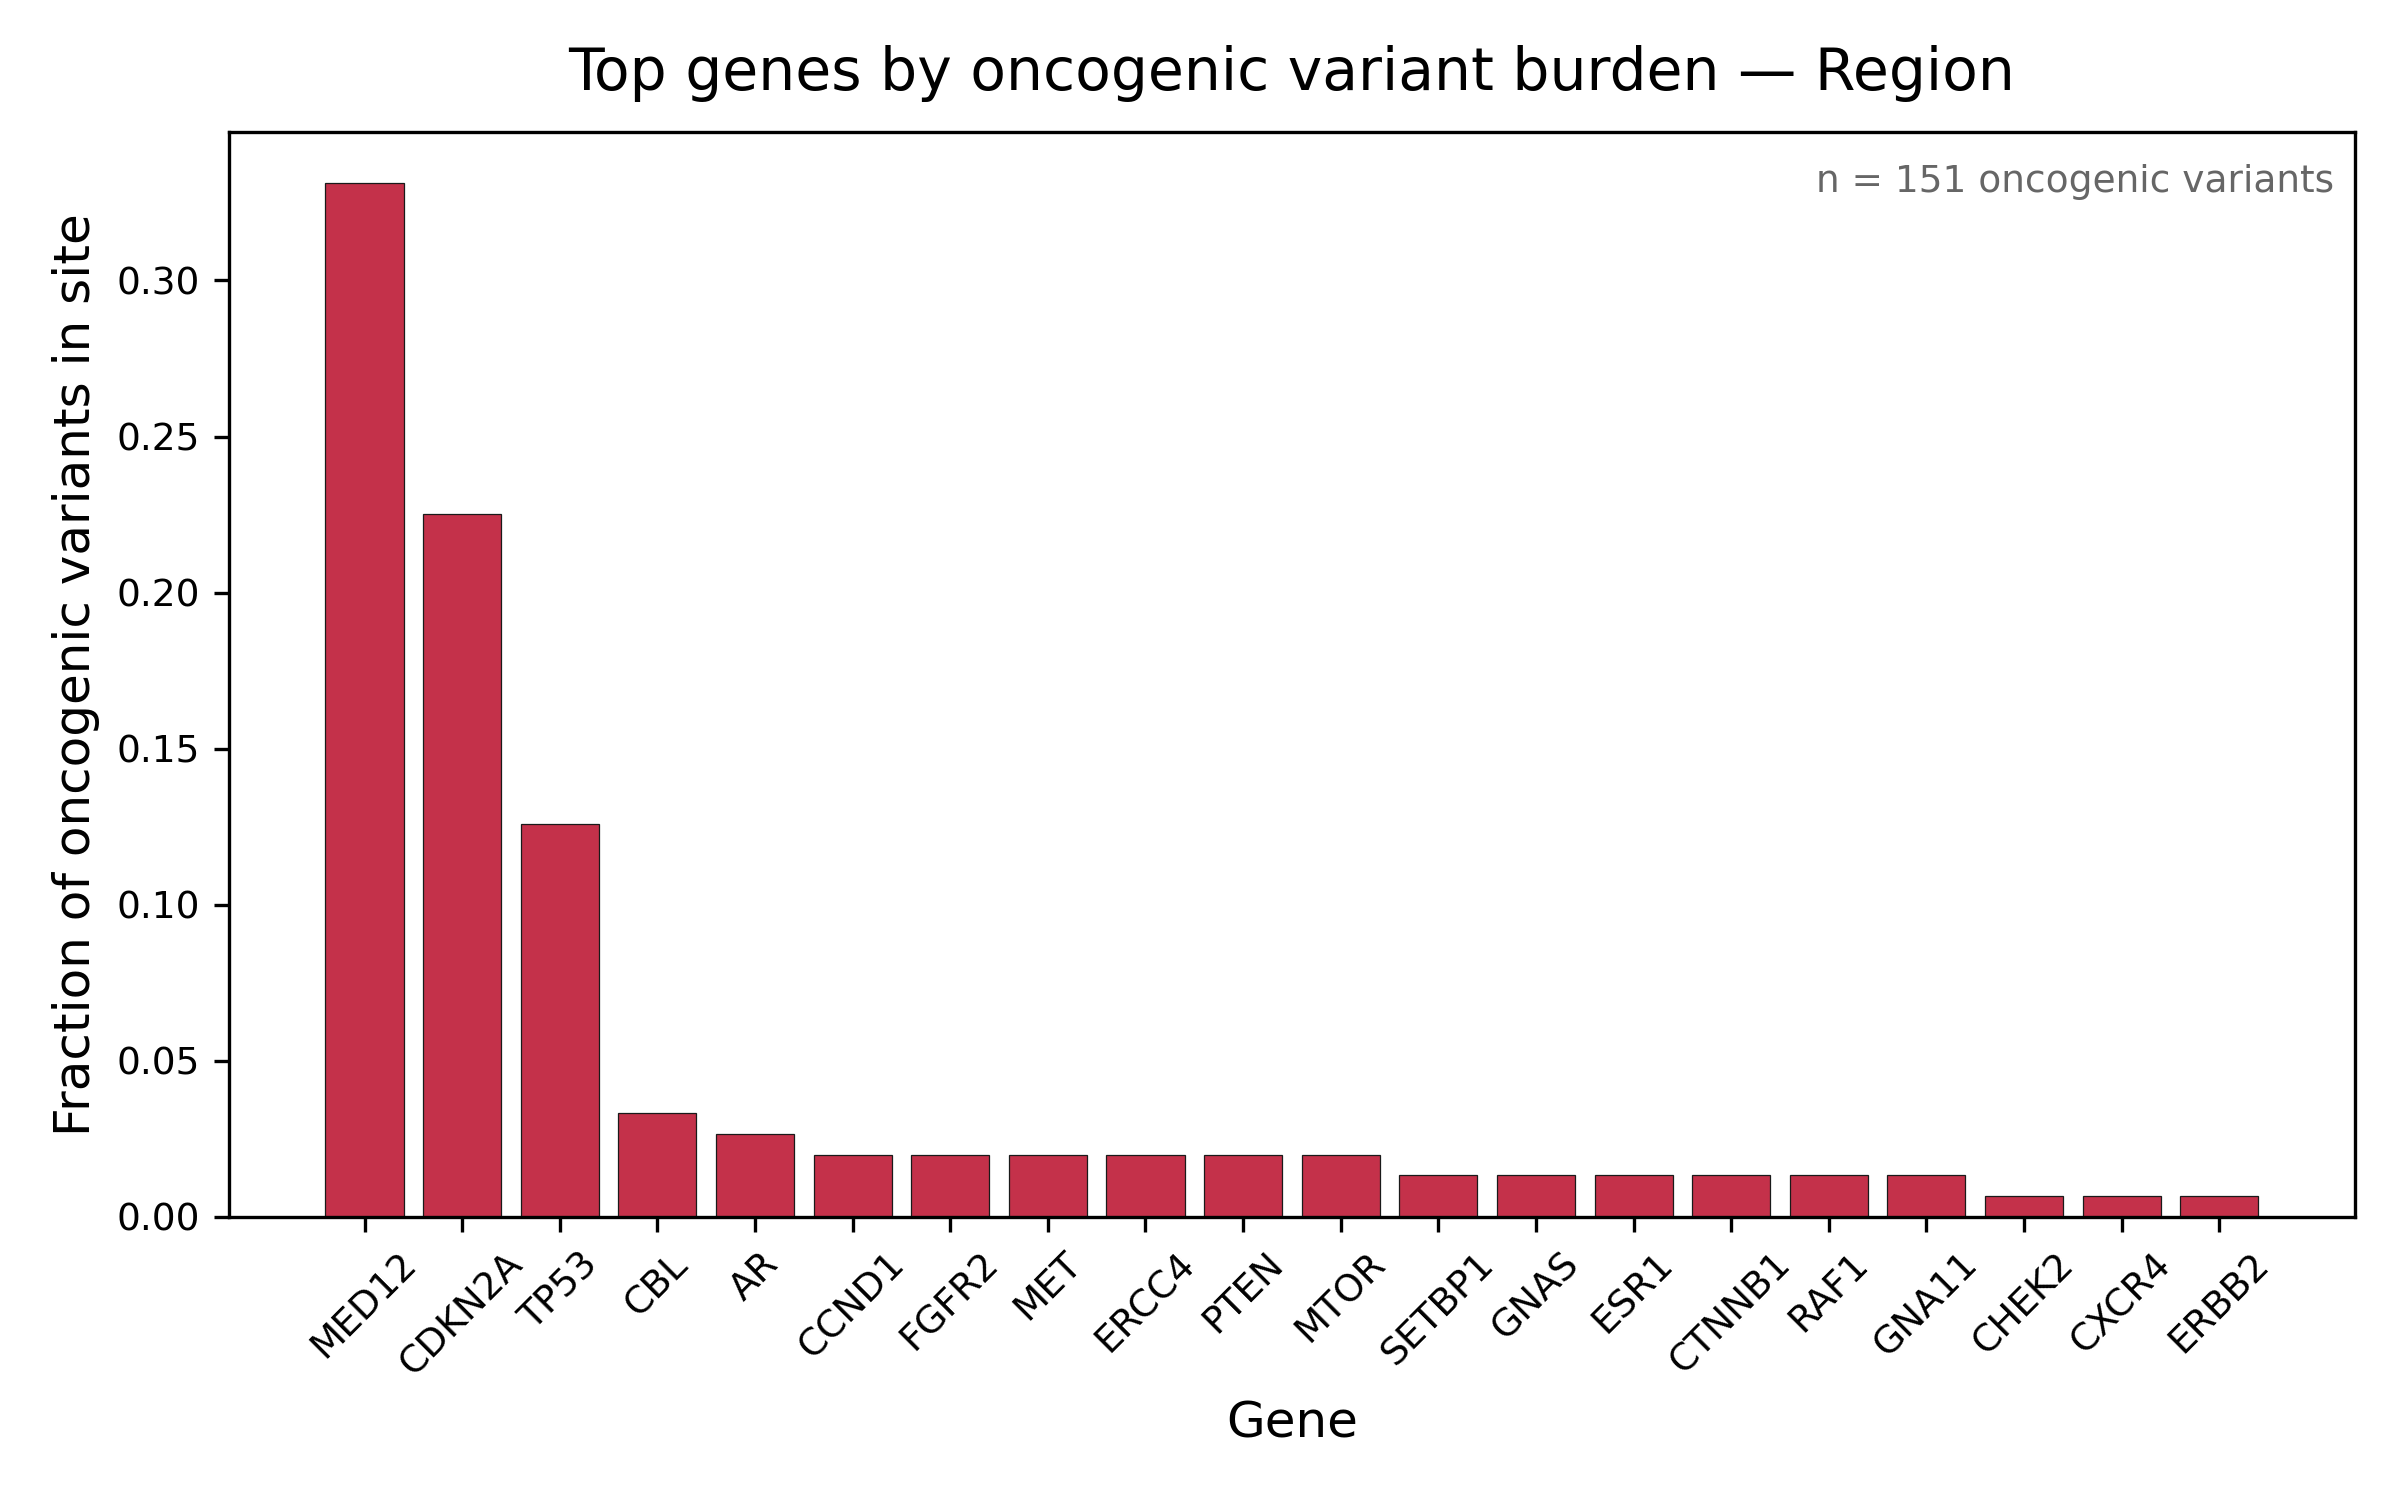
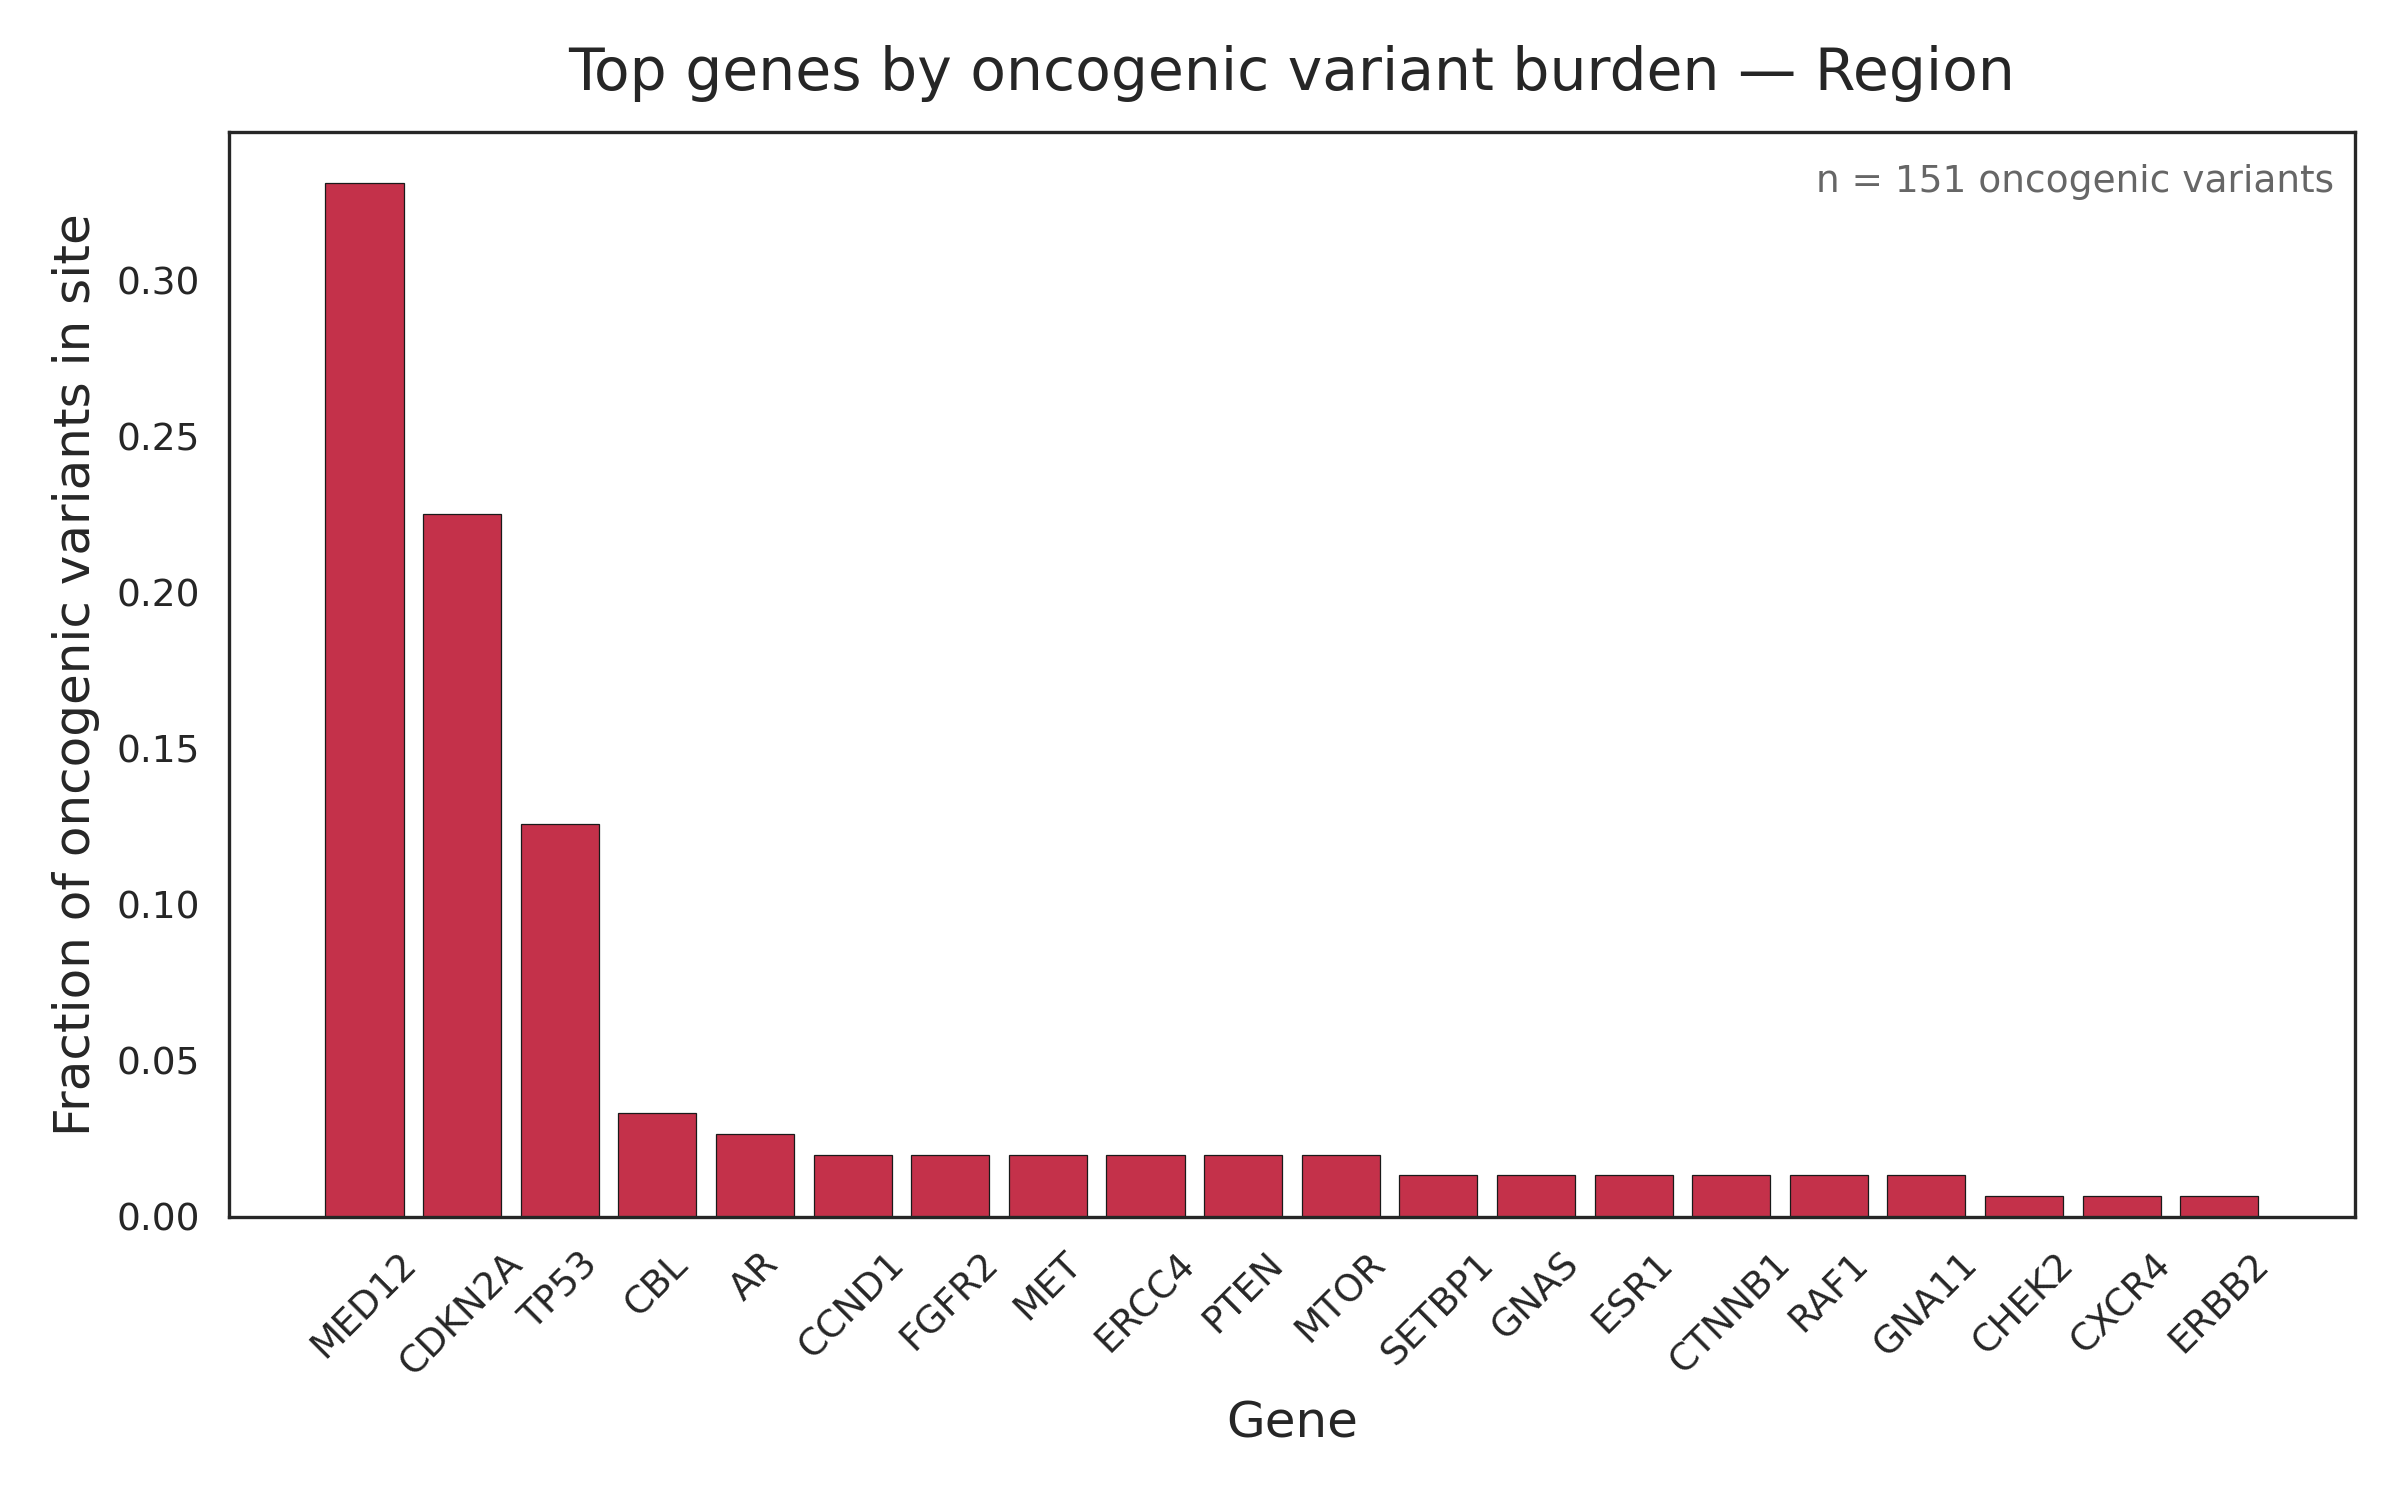
edit plots

diff --git a/scripts/EDA/tsg_og.py b/scripts/EDA/tsg_og.py
@@ -31,6 +31,7 @@ print("-"*50)
 
 import pandas as pd
 import matplotlib.pyplot as plt
+import seaborn as sns
 from pathlib import Path
 import argparse
 import os
@@ -123,20 +124,42 @@ print("-"*50)
 
 print("Plotting gene category distributions for oncogenic and likely neutral variants..")
 
-og_tsg_summary.plot(kind='bar', figsize=(8, 5), color=['#88aed1', '#c4314a'], edgecolor="0.1", linewidth=0.3)
+# Melt data from wide to long format 
+plot_data = og_tsg_summary.reset_index().melt(id_vars='gene_category')
+plot_data.columns = ['Gene Category', 'Oncogenicity', 'Variant Count']
 
-plt.title("Distribution of Variant Classes per Gene Category", fontsize=14)
-plt.ylabel("Number of Variants", fontsize=12)
-plt.xlabel("Gene Category", fontsize=12)
-plt.xticks(rotation=45, fontsize=9)
-plt.legend(title="Oncogenicity Class", fontsize=12)
+# Define colors for each class 
+palette = {
+    "Oncogenic": "#c4314a",
+    "Likely Neutral": "#88aed1",
+}
+
+# Plot 
+plt.figure(figsize=(8,5))
+sns.set_style("white")
+
+ax = sns.barplot(
+    data=plot_data,
+    x='Gene Category',
+    y='Variant Count',
+    hue='Oncogenicity',
+    palette=palette,
+    edgecolor="black",
+    linewidth=0.8
+)
+
+sns.despine()
+
+plt.title("Distribution of Variants Across Gene Categories", fontsize=14, pad=15)
+plt.ylabel("Number of Variants", fontsize=12, labelpad=10)
+plt.xlabel("Gene Category", fontsize=12, labelpad=10)
+plt.legend(title="Oncogenicity Class", bbox_to_anchor=(1.05, 1), loc='upper left', frameon=False)
 
 plt.tight_layout()
-plt.savefig(f"{save_dir}/gene_categories.png", dpi=300)
+plt.savefig(f"{save_dir}/og_tsg_distribution.png", dpi=300, bbox_inches="tight")
 plt.show()
 
-print(f"Plotting complete! Plot saved as '{save_dir}/gene_categories.png'")
-print("-"*50)
+print(f"Plotting complete! Plot saved as '{save_dir}/og_tsg_distribution.png'")
 
 # ------------------------------------------------------------
 # Check null variants distribution 
@@ -157,20 +180,41 @@ print("-"*50)
 
 print("Plotting null variant distributions for oncogenic and likely neutral variants..")
 
-null_var_summary.plot(kind='bar', figsize=(8, 5), color=['#88aed1', '#c4314a'], edgecolor="0.1", linewidth=0.3)
+# set style
+plt.figure(figsize=(8, 5))
+sns.set_style("white")
+palette = {
+    "Oncogenic": "#c4314a",
+    "Likely Neutral": "#88aed1",
+}
 
-plt.title("Prevalence of Null Variants by Oncogenicity Class", fontsize=14)
-plt.ylabel("Number of Variants", fontsize=12)
-plt.xlabel("Null Variant (True/False)", fontsize=12)
-plt.xticks(rotation=45, fontsize=9)
-plt.legend(title="Oncogenicity Class", fontsize=12)
+# Melt data from wide to long format 
+plot_data_null = null_var_summary.reset_index().melt(id_vars='is_null_variant')
+plot_data_null.columns = ['Is_Null', 'Oncogenicity', 'Count']
+
+# Plot
+ax = sns.barplot(
+    data=plot_data_null,
+    x='Is_Null',
+    y='Count',
+    hue='Oncogenicity',
+    palette=palette,
+    edgecolor="black",
+    linewidth=0.8
+)
+
+sns.despine()
+
+plt.title("Prevalence of Null Variants by Oncogenicity Class", fontsize=14, pad=15)
+plt.ylabel("Number of Variants", fontsize=12, labelpad=10)
+plt.xlabel("Null Variant Status", fontsize=12, labelpad=10)
+plt.legend(title="Oncogenicity Class", bbox_to_anchor=(1.05, 1), loc='upper left', frameon=False)
 
 plt.tight_layout()
-plt.savefig(f"{save_dir}/null_var.png", dpi=300)
+plt.savefig(f"{save_dir}/null_var.png", dpi=300, bbox_inches="tight")
 plt.show()
 
 print(f"Plotting complete! Plot saved as '{save_dir}/null_var.png'")
-print("-"*50)
 
 # ------------------------------------------------------------
 # Check null variants in tsg distribution 
@@ -190,16 +234,39 @@ print("-"*50)
 
 print("Plotting null variant in tsg distribution for oncogenic and likely neutral variants..")
 
-null_var_tsg_summary.plot(kind='bar', figsize=(8, 5), color=['#88aed1', '#c4314a'], edgecolor="0.1", linewidth=0.3)
+# set style
+plt.figure(figsize=(8, 5))
+sns.set_style("white")
+palette = {
+    "Oncogenic": "#c4314a",
+    "Likely Neutral": "#88aed1",
+}
 
-plt.title("Prevalence of Null Variants in TSGs by Oncogenicity Class", fontsize=14)
-plt.ylabel("Number of Variants", fontsize=12)
-plt.xlabel("Null Variant in TSG (True/False)", fontsize=12)
+# Melt data from wide to long format 
+plot_data_null_tsg = null_var_tsg_summary.reset_index().melt(id_vars='is_null_var_tsg')
+plot_data_null_tsg.columns = ['Is_Null_TSG', 'Oncogenicity', 'Count']
+
+# Plot
+ax = sns.barplot(
+    data=plot_data_null_tsg,
+    x='Is_Null_TSG',
+    y='Count',
+    hue='Oncogenicity',
+    palette=palette,
+    edgecolor="black",
+    linewidth=0.8
+)
+
+sns.despine()
+
+plt.title("Prevalence of Null Variants in TSGs by Oncogenicity Class", fontsize=14, pad=15)
+plt.ylabel("Number of Variants", fontsize=12, labelpad=10)
+plt.xlabel("Null Variant in TSG (True/False)", fontsize=12, labelpad=10)
 plt.xticks(rotation=45, fontsize=9)
-plt.legend(title="Oncogenicity Class", fontsize=12)
+plt.legend(title="Oncogenicity Class", bbox_to_anchor=(1.05, 1), loc='upper left', frameon=False)
 
 plt.tight_layout()
-plt.savefig(f"{save_dir}/null_var_in_tsg.png", dpi=300)
+plt.savefig(f"{save_dir}/null_var_in_tsg.png", dpi=300, bbox_inches="tight")
 plt.show()
 
 print(f"Plotting complete! Plot saved as '{save_dir}/null_var_in_tsg.png'")
@@ -224,15 +291,22 @@ print(gene_counts)
 
 # Plot results
 plt.figure(figsize=(8, 5))
-gene_counts.plot(kind="bar", color="#c4314a", edgecolor="0.1", linewidth=0.3)
+sns.set_style("white") 
 
-plt.title("Genes with Oncogenic Null Variants in TSGs", fontsize=14)
-plt.ylabel("Number of Variants", fontsize=12)
-plt.xlabel("Gene", fontsize=12)
-plt.xticks(rotation=45)
+sns.barplot(gene_counts,
+            color="#c4314a", 
+            edgecolor="black",
+            linewidth=0.8)
+
+sns.despine() 
+
+plt.title("Genes with Oncogenic Null Variants in TSGs", fontsize=14, pad=15)
+plt.ylabel("Number of Variants", fontsize=12, labelpad=10)
+plt.xlabel("Gene", fontsize=12, labelpad=10)
+plt.xticks(rotation=45, fontsize=9)
 
 plt.tight_layout()
-plt.savefig(f"{save_dir}/genes_null_var_in_tsg.png", dpi=300)
+plt.savefig(f"{save_dir}/genes_null_var_in_tsg.png", dpi=300, bbox_inches="tight")
 plt.show()
 
 print(f"Plotting complete! Plot saved as '{save_dir}/genes_null_var_in_tsg.png'")

diff --git a/scripts/EDA/functional_sites.py b/scripts/EDA/functional_sites.py
@@ -206,22 +206,27 @@ print(counts)
 print("-"*50)
 print("Plotting fractions of variants for each functional site type..\n")
 
+sns.set_style("white")
 plt.figure(figsize=(8,5))
+
 sns.barplot(
     data=counts,
     x="FEATURE_TYPE",
     y="Fraction",
     hue="ONCOGENIC",
     palette=palette, 
-    edgecolor="0.1",
-    linewidth=0.3
+    edgecolor="black",
+    linewidth=0.5
 )
-plt.title("Variant Fractions per Functional Site Type", fontsize=14, pad=10)
-plt.xlabel("Functional Site", fontsize=12)
-plt.ylabel("Fraction", fontsize=12)
+
+sns.despine() 
+
+plt.title("Fraction of Variants per Functional Site Type", fontsize=14, pad=15)
+plt.xlabel("Functional Site", fontsize=12, labelpad=10)
+plt.ylabel("Fraction", fontsize=12, labelpad=10)
 plt.xticks(rotation=45, ha="right", fontsize=9)
 plt.yticks(fontsize=9)
-plt.legend(title="Oncogenicity", bbox_to_anchor=(1.05, 1), loc='upper left')
+plt.legend(title="Oncogenicity Class", bbox_to_anchor=(1.05, 1), loc='upper left', frameon=False)
 
 plt.tight_layout()
 plt.savefig(f"{save_dir}/fraction_per_site.png", dpi=300)
@@ -341,9 +346,10 @@ pivot_heatmap = top_genes.pivot(
 
 plt.figure(figsize=(8,6))
 sns.heatmap(pivot_heatmap, annot=True, cmap="Reds", fmt=".2f", cbar_kws={'label': 'Fraction of total oncogenic variants in site type'})
-plt.title("Oncogenic Variant Contribution per Functional Site Type", fontsize=14, pad=10)
-plt.xlabel("Functional Site Type", fontsize=12)
-plt.ylabel("Gene", fontsize=12)
+
+plt.title("Oncogenic Variant Contribution per Functional Site Type", fontsize=14, pad=15)
+plt.xlabel("Functional Site Type", fontsize=12, labelpad=10)
+plt.ylabel("Gene", fontsize=12, labelpad=10)
 
 plt.tight_layout()
 plt.savefig(f"{save_dir}/top_genes_per_functional_site.png", dpi=300, bbox_inches="tight")

diff --git a/scripts/EDA/protein_domains.py b/scripts/EDA/protein_domains.py
@@ -157,20 +157,20 @@ ax = domain_plot_data.plot(
     kind="bar",
     stacked=True,
     figsize=(8,5),
-    edgecolor="0.1",
-    linewidth=0.3,
+    edgecolor="black",
+    linewidth=0.5,
     color={"Oncogenic": "#c4314a", "Likely Neutral": "#88aed1"}
 )
 
 plt.title("Top Protein Domains by Variant Count", fontsize=14, pad=15)
-plt.xlabel("Domain Name", fontsize=12)
-plt.ylabel("Number of Variants", fontsize=12)
+plt.xlabel("Domain Name", fontsize=12, labelpad=10)
+plt.ylabel("Number of Variants", fontsize=12, labelpad=10)
 plt.xticks(rotation=90, ha="right", fontsize=9)
 plt.yticks(fontsize=9) 
-plt.legend(title="Oncogenicity Class")
+plt.legend(title="Oncogenicity Class", frameon=False)
 
 plt.tight_layout()
-plt.savefig(f"{save_dir}/top_domains.png", dpi=300)
+plt.savefig(f"{save_dir}/top_domains.png", dpi=300, bbox_inches="tight")
 plt.show()
 
 print(f"Plotting complete! Plot saved as '{save_dir}/top_domains.png'")

diff --git a/scripts/EDA/top_genes.py b/scripts/EDA/top_genes.py
@@ -311,15 +311,15 @@ pivot_pct.plot(
     stacked=True, 
     figsize=(10,6),
     color=["#88aed1","#c4314a"],
-    edgecolor="0.1",
-    linewidth=0.5
+    edgecolor="black",
+    linewidth=0.6
 )
 
 sns.despine() 
 
-plt.title("Oncogenicity Distribution in Top Oncogenic Genes (%)", fontsize=14, pad=10) 
-plt.xlabel("Gene", fontsize=12)
-plt.ylabel("Percentage of Variants (%)", fontsize=12) 
+plt.title("Oncogenicity Distribution in Top Oncogenic Genes (%)", fontsize=14, pad=15) 
+plt.xlabel("Gene", fontsize=12, labelpad=10)
+plt.ylabel("Percentage of Variants (%)", fontsize=12, labelpad=10) 
 plt.xticks(rotation=45, ha="right", fontsize=9) 
 plt.yticks(fontsize=9)
 plt.legend(title="Oncogenicity Class", bbox_to_anchor=(1.05, 1), loc='upper left', fontsize=10, title_fontsize=11, markerscale=0.9, frameon=False)

diff --git a/scripts/EDA/cancerhotspots.py b/scripts/EDA/cancerhotspots.py
@@ -362,7 +362,7 @@ sns.barplot(
   hue="Hotspot_Fraction",
   palette="YlOrRd",
   edgecolor="black",
-  linewidth=0.8
+  linewidth=0.5
 )
 
 sns.despine()
